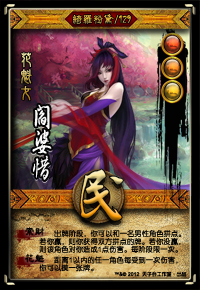
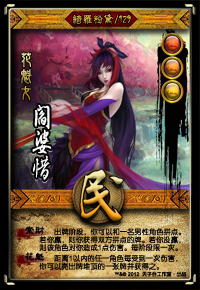
更新阎惜焦
30.阎惜娇杀死人,不能花魁。
23.燕青打擂赢，杀死对方，不能加血。
31.逢凶化吉对无效目标（不掉血）还提示无邪。

Changed region(s): [[0.06, 0.7759, 0.9, 0.9621]]

diff --git a/src/package/standard-generals.cpp b/src/package/standard-generals.cpp
@@ -2544,25 +2544,42 @@ public:
     }
 };
 
-class Huakui: public MasochismSkill{
+class Huakui: public TriggerSkill{
 public:
-    Huakui():MasochismSkill("huakui"){
+    Huakui():TriggerSkill("huakui"){
         frequency = Frequent;
+        events << Damaged;
     }
 
     virtual bool triggerable(const ServerPlayer *target) const{
         return true;
     }
 
-    virtual void onDamaged(ServerPlayer *other, const DamageStruct &damage) const{
+    virtual bool trigger(TriggerEvent , ServerPlayer *other, QVariant &data) const{
         Room *room = other->getRoom();
         QList<ServerPlayer *> lolita = room->findPlayersBySkillName(objectName());
         foreach(ServerPlayer *loli, lolita){
             if(loli->distanceTo(other) < 2 && loli->askForSkillInvoke(objectName())){
+                int card_id = room->drawCard();
+                room->moveCardTo(Sanguosha->getCard(card_id), NULL, Player::Special, true);
                 room->playSkillEffect(objectName());
-                loli->drawCards(1);
+                room->setEmotion(loli, "draw-card");
+                room->getThread()->delay();
+
+                LogMessage log;
+                log.type = "$TakeAG";
+                log.from = loli;
+                log.card_str = QString::number(card_id);
+                room->sendLog(log);
+
+                room->obtainCard(loli, card_id);
             }
         }
+        return false;
+    }
+
+    virtual int getPriority() const{
+        return -1;
     }
 };
 

diff --git a/src/package/plough.cpp b/src/package/plough.cpp
@@ -372,6 +372,10 @@ Inspiration::Inspiration(Suit suit, int number)
     setObjectName("inspiration");
 }
 
+bool Inspiration::isCancelable(const CardEffectStruct &effect) const{
+    return effect.to->isWounded();
+}
+
 void Inspiration::onEffect(const CardEffectStruct &effect) const{
     int x = qMin(3, effect.to->getLostHp());
     if(x > 0)

diff --git a/src/package/plough.h b/src/package/plough.h
@@ -120,6 +120,7 @@ class Inspiration: public GlobalEffect{
 public:
     Q_INVOKABLE Inspiration(Card::Suit suit, int number);
 
+    virtual bool isCancelable(const CardEffectStruct &effect) const;
     virtual void onEffect(const CardEffectStruct &effect) const;
 };
 

diff --git a/src/server/serverplayer.cpp b/src/server/serverplayer.cpp
@@ -123,7 +123,7 @@ void ServerPlayer::clearPrivatePiles(){
 }
 
 void ServerPlayer::bury(){
-    clearFlags();
+    //clearFlags();
     clearHistory();
     throwAllCards();
     throwAllMarks();
